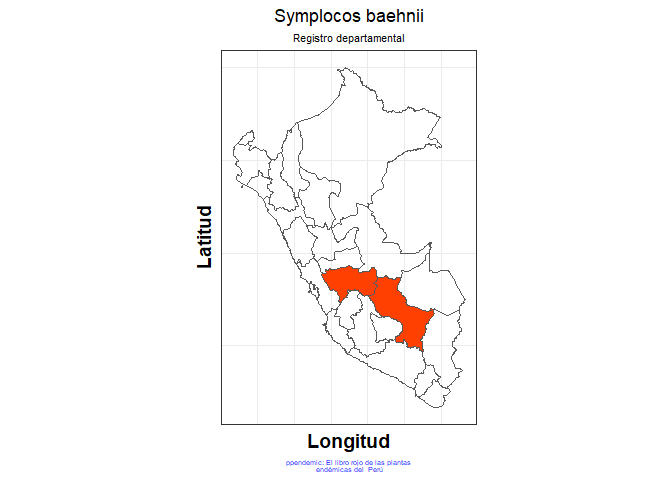
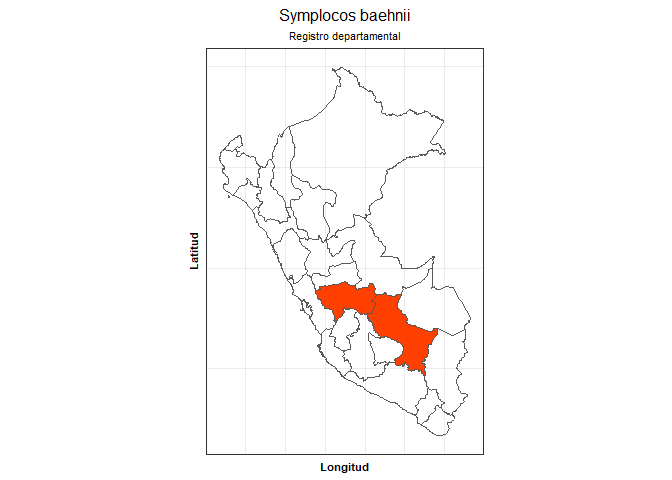
test readme

diff --git a/README.md b/README.md
@@ -54,7 +54,9 @@ to be verified.
 ``` r
 spp <-  c("Clethra cuneata", "Miconia setulosa", "Weinmannia fagaroides", "Symplocos quitensis", "Miconia alpina", "Persea ruizii", "Myrsine andina", "Symplocos baehnii", "Polylepis pauta")
 
-#pep_check(spp)
+pep_check(spp)
+#> [1] "not endemic" "not endemic" "not endemic" "not endemic" "endemic"    
+#> [6] "not endemic" "not endemic" "endemic"     "not endemic"
 ```
 
 Or in a tibble variable:
@@ -80,15 +82,35 @@ df
 #> 8 Symplocos baehnii    
 #> 9 Polylepis pauta
 
-#df %>% 
-#  mutate(endemic = pep_check(sppe))
+df %>% 
+  mutate(endemic = pep_check(sppe))
+#> # A tibble: 9 x 2
+#>   sppe                  endemic    
+#>   <chr>                 <chr>      
+#> 1 Clethra cuneata       not endemic
+#> 2 Miconia setulosa      not endemic
+#> 3 Weinmannia fagaroides not endemic
+#> 4 Symplocos quitensis   not endemic
+#> 5 Miconia alpina        endemic    
+#> 6 Persea ruizii         not endemic
+#> 7 Myrsine andina        not endemic
+#> 8 Symplocos baehnii     endemic    
+#> 9 Polylepis pauta       not endemic
 ```
 
 Mapa de registro departamental:
 
 ``` r
-#pep_regdep_map("Symplocos baehnii")
+pep_regdep_map("Symplocos baehnii")
+#> Reading layer `peru' from data source `C:\Users\user\OneDrive\Documentos\R\win-library\4.0\ppendemic\shape\peru.shp' using driver `ESRI Shapefile'
+#> Simple feature collection with 26 features and 84 fields
+#> geometry type:  MULTIPOLYGON
+#> dimension:      XY
+#> bbox:           xmin: -81.33756 ymin: -18.33775 xmax: -68.68425 ymax: -0.02909271
+#> geographic CRS: GCS_unknown
 ```
+
+<img src="man/figures/README-map-1.png" width="100%" />
 
 ## Citation
 
